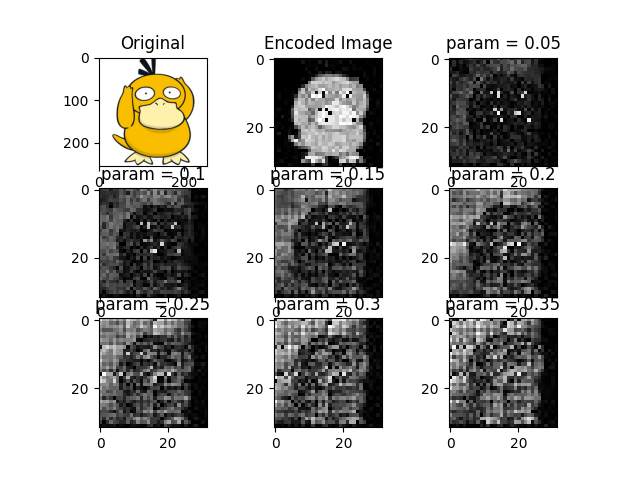
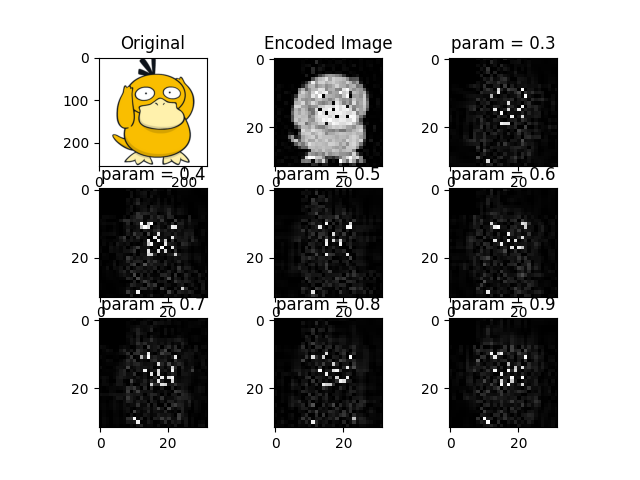
Upload

diff --git a/experiments.py b/experiments.py
@@ -275,7 +275,8 @@ if __name__ == '__main__':
     experiment_settings_AMP = {
         'encoding': 'Amplitude Encoding',
         'noiseModel': 'Amplitude Damping',
-        'modelParams': [0.05, 0.1, 0.15, 0.2, 0.25, 0.3, 0.35],
+        # 'modelParams': [0.05, 0.1, 0.15, 0.2, 0.25, 0.3, 0.35],
+        'modelParams': [0.3, 0.4, 0.5, 0.6, 0.7, 0.8, 0.9],
         'shots': 20000,
         'resize': 32,
         'originalImgPath': IMG_PATH,
@@ -312,7 +313,7 @@ if __name__ == '__main__':
         'home_path': 'result/NEQR_AmpDam/',
     }
 
-    imgDictList,imgDiffList = experiments(experiment_settings_NEQR)
+    imgDictList,imgDiffList = experiments(experiment_settings_AMP)
     imgPlot(imgDictList, 'out')
     imgPlot(imgDiffList, 'diff')
     plotEvalCurve(imgDictList)

diff --git a/noise_model.py b/noise_model.py
@@ -56,7 +56,12 @@ def constructAmplitudeDampingNoiseModel(param_meas, qb_nums, rand):
             noise_model.add_quantum_error(qerror_meas, 'measure', [sample])
         return noise_model
     else:
-        noise_model.add_all_qubit_quantum_error(qerror_meas, "measure")
+        noise_model.add_all_qubit_quantum_error(qerror_meas, "reset")
+        # noise_model.add_all_qubit_quantum_error(qerror_meas, "measure")
+        noise_model.add_all_qubit_quantum_error(qerror_meas, ['u1', 'u2', 'u3'])
+        error_gate1 = pauli_error([("X", param_meas), ("I", 1 - param_meas)])
+        error_gate2 = error_gate1.tensor(error_gate1)
+        noise_model.add_all_qubit_quantum_error(error_gate2, ["cx"])
         return noise_model
 
 # Phase Damping Model on phase gate
